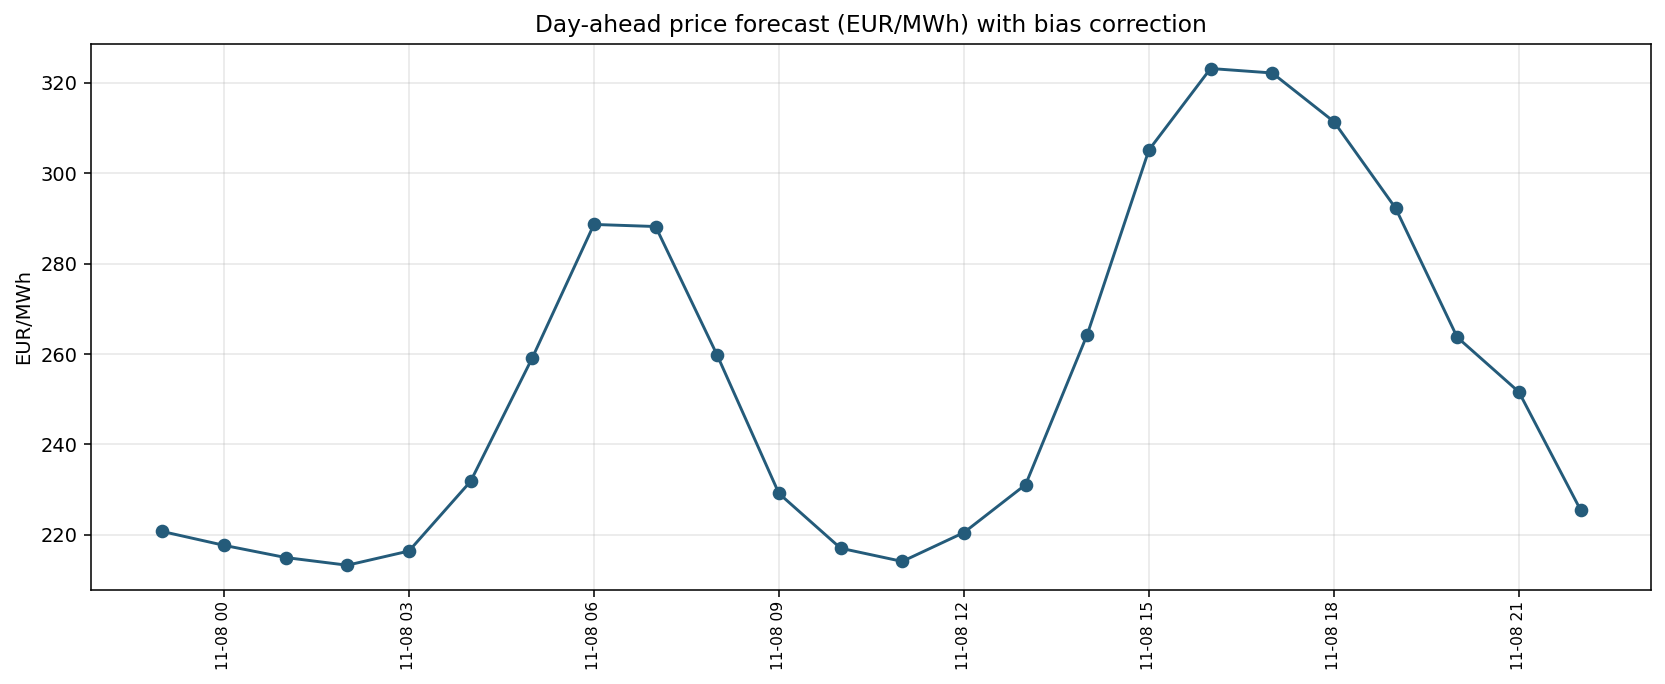
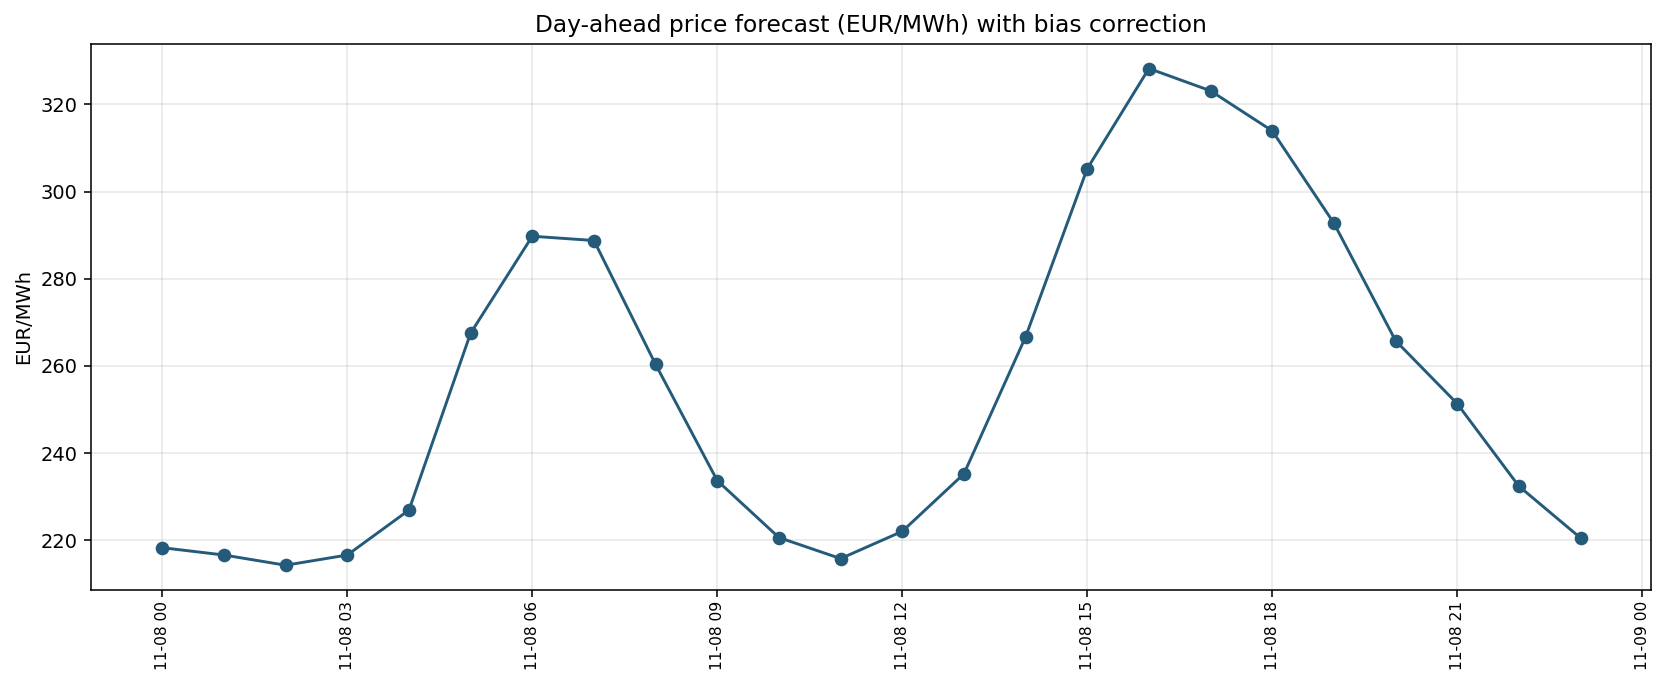
chore: daily forecast update

diff --git a/README.md b/README.md
@@ -195,9 +195,9 @@ Licence: MIT (code). Underlying market data remain subject to their original lic
 
 ## Live daily forecast
 
-**Generated (UTC):** 2026-11-07 22:56  
-**Based on data up to (UTC):** 2026-11-07 22:00  
-**Forecast horizon (UTC):** 2026-11-07 23:00 to 2026-11-08 22:00  
+**Generated (UTC):** 2026-11-07 23:59  
+**Based on data up to (UTC):** 2026-11-07 23:00  
+**Forecast horizon (UTC):** 2026-11-08 00:00 to 2026-11-08 23:00  
 **Protocol:** Conservative (external_shift = 24) + hourly bias correction
 
 ### Forecast chart
@@ -208,30 +208,30 @@ Licence: MIT (code). Underlying market data remain subject to their original lic
 
 | Hour (UTC) | Forecast (EUR/MWh) | Bias |
 |------------|--------------------|------|
-| 2026-11-07 23:00 | 220.76 | -30.27 |
-| 2026-11-08 00:00 | 217.70 | -31.85 |
-| 2026-11-08 01:00 | 215.00 | -31.00 |
-| 2026-11-08 02:00 | 213.30 | -29.46 |
-| 2026-11-08 03:00 | 216.44 | -30.45 |
-| 2026-11-08 04:00 | 231.85 | -18.89 |
-| 2026-11-08 05:00 | 259.14 | -22.46 |
-| 2026-11-08 06:00 | 288.65 | -32.49 |
-| 2026-11-08 07:00 | 288.19 | -37.22 |
-| 2026-11-08 08:00 | 259.70 | -31.27 |
-| 2026-11-08 09:00 | 229.17 | -27.18 |
-| 2026-11-08 10:00 | 217.06 | -26.00 |
-| 2026-11-08 11:00 | 214.14 | -26.99 |
-| 2026-11-08 12:00 | 220.52 | -26.84 |
-| 2026-11-08 13:00 | 231.12 | -27.23 |
-| 2026-11-08 14:00 | 264.31 | -36.76 |
-| 2026-11-08 15:00 | 305.12 | -39.07 |
-| 2026-11-08 16:00 | 323.13 | -34.95 |
-| 2026-11-08 17:00 | 322.14 | -29.60 |
-| 2026-11-08 18:00 | 311.38 | -33.25 |
-| 2026-11-08 19:00 | 292.26 | -31.77 |
-| 2026-11-08 20:00 | 263.70 | -22.91 |
-| 2026-11-08 21:00 | 251.61 | -28.24 |
-| 2026-11-08 22:00 | 225.52 | -30.85 |
+| 2026-11-08 00:00 | 218.29 | -31.85 |
+| 2026-11-08 01:00 | 216.61 | -31.00 |
+| 2026-11-08 02:00 | 214.27 | -29.46 |
+| 2026-11-08 03:00 | 216.61 | -30.45 |
+| 2026-11-08 04:00 | 226.92 | -18.89 |
+| 2026-11-08 05:00 | 267.52 | -22.46 |
+| 2026-11-08 06:00 | 289.76 | -32.49 |
+| 2026-11-08 07:00 | 288.78 | -37.22 |
+| 2026-11-08 08:00 | 260.35 | -31.27 |
+| 2026-11-08 09:00 | 233.68 | -27.18 |
+| 2026-11-08 10:00 | 220.62 | -26.00 |
+| 2026-11-08 11:00 | 215.79 | -26.99 |
+| 2026-11-08 12:00 | 222.04 | -26.84 |
+| 2026-11-08 13:00 | 235.24 | -27.23 |
+| 2026-11-08 14:00 | 266.67 | -36.76 |
+| 2026-11-08 15:00 | 305.27 | -39.07 |
+| 2026-11-08 16:00 | 328.25 | -34.95 |
+| 2026-11-08 17:00 | 323.13 | -29.60 |
+| 2026-11-08 18:00 | 313.94 | -33.25 |
+| 2026-11-08 19:00 | 292.76 | -31.77 |
+| 2026-11-08 20:00 | 265.80 | -22.91 |
+| 2026-11-08 21:00 | 251.33 | -28.24 |
+| 2026-11-08 22:00 | 232.40 | -37.01 |
+| 2026-11-08 23:00 | 220.52 | -28.26 |
 
 ### Previous forecasts vs realized prices
 
